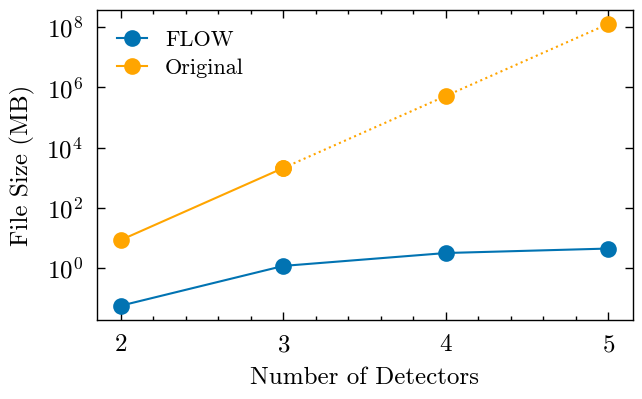
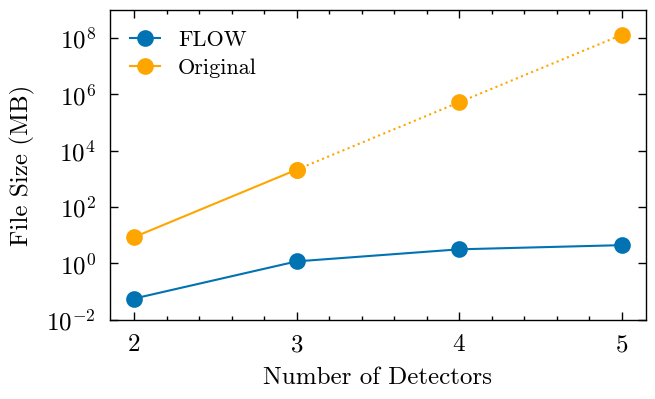
BW

diff --git a/Sampling/PTA_samples.py b/Sampling/PTA_samples.py
@@ -150,7 +150,7 @@ while len(all_keys)<=args.samples:
         fp, fc = d[ifo].antenna_pattern(ra, dec, pol, 0)
         sp, sc = fp * ip, fc * ic
         data[ifo]['amp'] = (sp**2+sc**2)**0.5*rs #Amplitude without uncertainities
-        mass_distance_factor = ((chirp_mass(m1_samples, m2_samples)**(5/3))/distance)
+        mass_distance_factor = ((chirp_mass(m1_samples, m2_samples)**(5/4))/distance)
         snr_sp = (rs*sp*mass_distance_factor) 
         snr_sc = (rs*sc*mass_distance_factor)
         data[ifo]['op'] = np.arctan2(snr_sc, snr_sp) #Phase without uncertainties